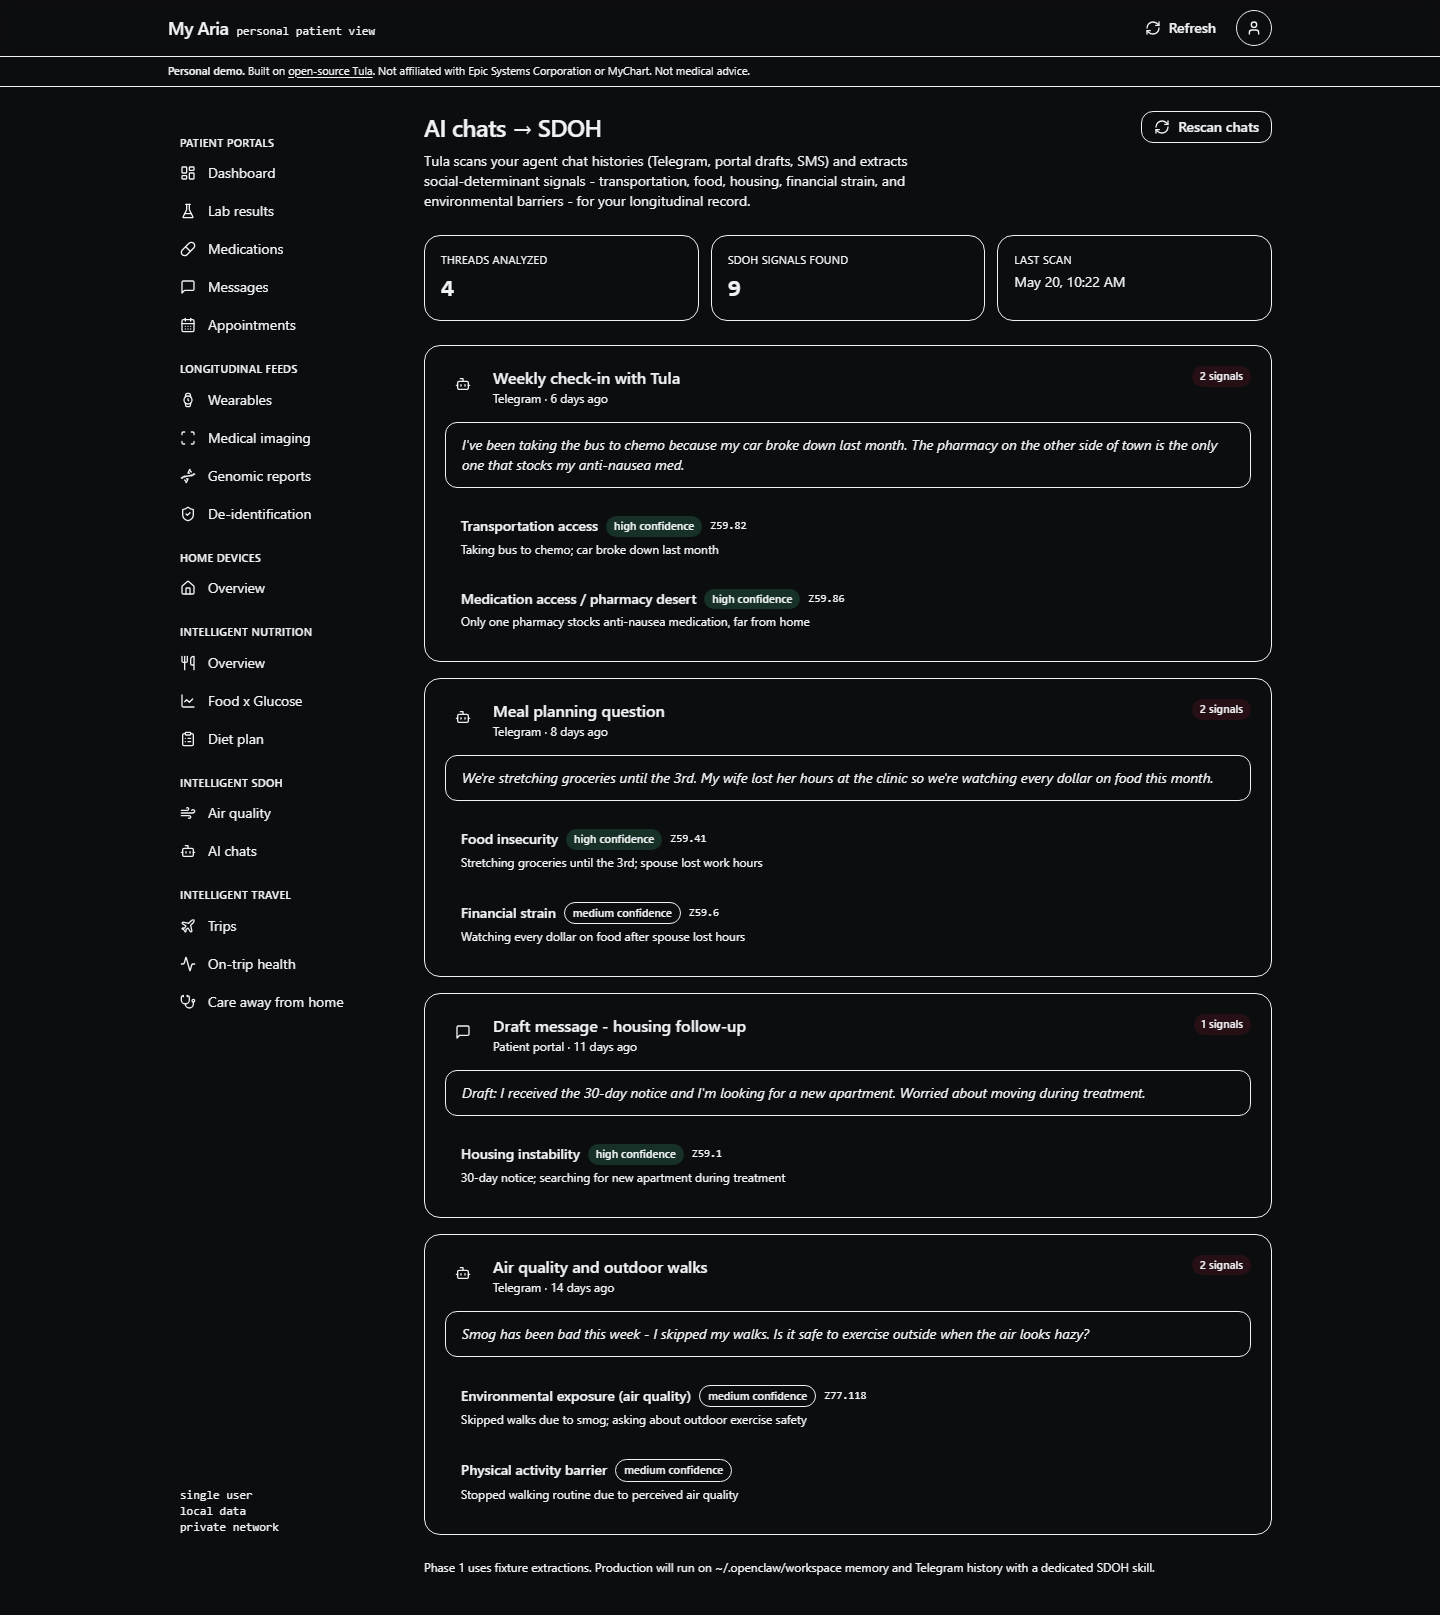
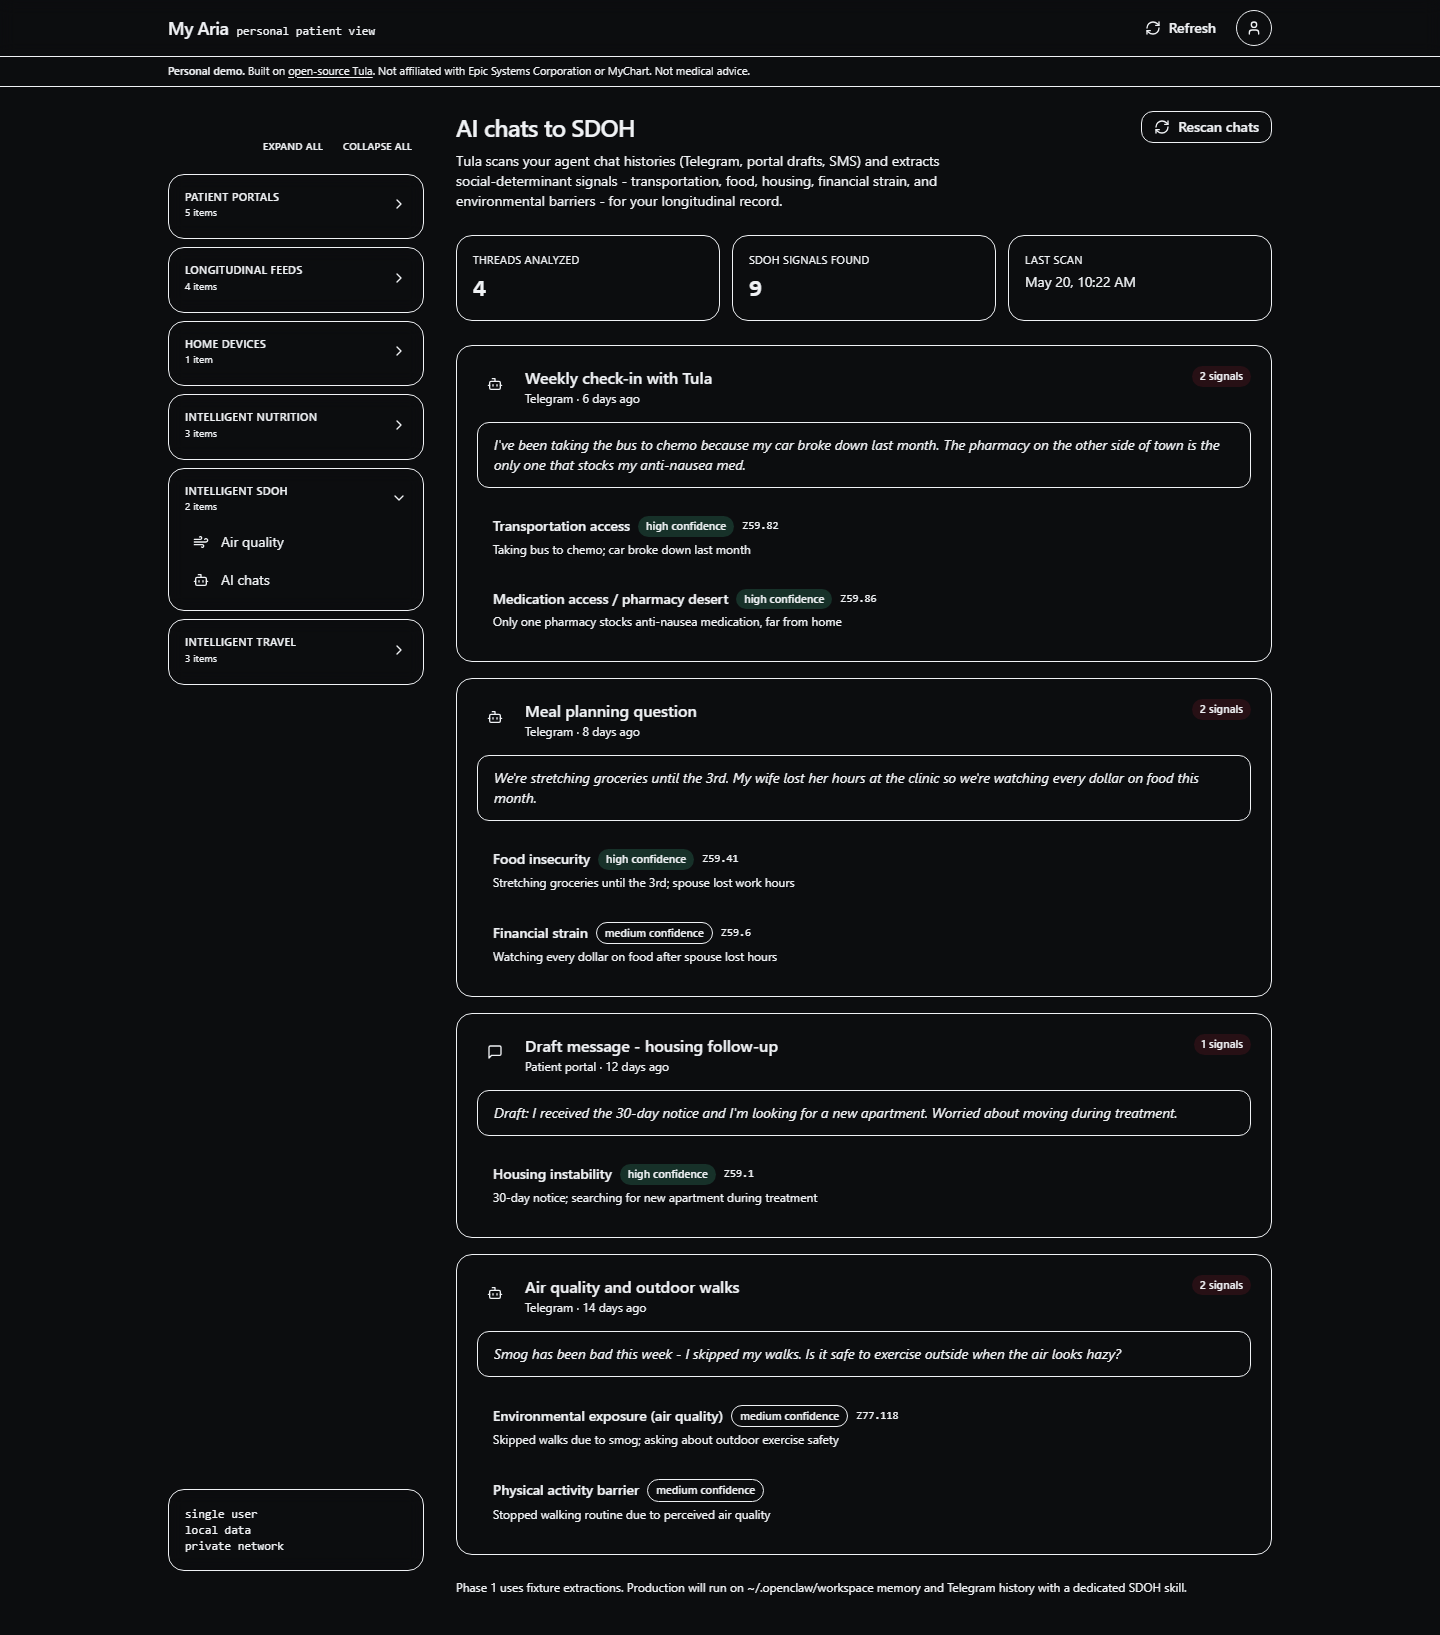
chore(apps): strip AI-typographic tells from agent-studio and my-aria
Sweeps user-facing strings and comments in both Next.js apps for the
typographic characters AI authoring tools tend to insert, matching
the prose sweep already applied to articles, docs, and READMEs.

Strictly user-facing-text and comment edits. No code logic, no
identifiers, no fixture values changed.

Em dashes (U+2014) replaced with colon or comma:
- apps/agent-studio/app/globals.css   color-tokens header comment
- apps/agent-studio/app/layout.tsx    metadata.description
- apps/agent-studio/package.json      package description
- apps/my-aria/app/globals.css        4 section header comments
  (Surfaces, Brand accent, Informational, Flag tones)
- apps/my-aria/package.json           package description

Arrow (U+2192) replaced with natural English in the one heading
that used it:
- apps/my-aria/components/sdoh/ai-chats-view.tsx
  <h1>AI chats -> SDOH</h1>  becomes  <h1>AI chats to SDOH</h1>
- apps/my-aria/public/my-aria-ai-chats.png  regenerated via
  npm run screenshot:ai-chats so the screenshot embedded in
  articles/i-built-the-patient-portal-my-agent-deserves.md
  matches the live UI

Intentionally left in place (not AI tells; would corrupt content
or design if stripped):
- Mock medical / scientific notation: "ug/m3" written as U+00B5 +
  U+00B3 (micrograms per cubic meter) in apps/my-aria/lib/sdoh/
  fixtures.ts and lookup.ts, and "SpO2" written with U+2082 in
  apps/my-aria/lib/home-devices/categories.ts. These are correct
  unit/chemistry notation.
[…]

diff --git a/apps/my-aria/app/globals.css b/apps/my-aria/app/globals.css
@@ -6,7 +6,7 @@
   --font-mono: ui-monospace, SFMono-Regular, Menlo, Monaco, Consolas,
     "Liberation Mono", "Courier New", monospace;
 
-  /* Surfaces — dark-first, MyChart-inspired clinical calm */
+  /* Surfaces: dark-first, MyChart-inspired clinical calm */
   --color-bg: oklch(0.16 0.005 264);
   --color-bg-elevated: oklch(0.20 0.006 264);
   --color-bg-card: oklch(0.22 0.007 264);
@@ -15,17 +15,17 @@
   --color-fg-subtle: oklch(0.55 0.010 264);
   --color-border: oklch(0.30 0.008 264);
 
-  /* Brand accent — burgundy (~#9B1C2C) */
+  /* Brand accent: burgundy (~#9B1C2C) */
   --color-accent: oklch(0.46 0.16 18);
   --color-accent-hover: oklch(0.52 0.17 18);
   --color-accent-fg: oklch(0.98 0.002 264);
   --color-accent-soft: oklch(0.36 0.08 18);
 
-  /* Informational — clinical blue (for appointments, balance, neutral status) */
+  /* Informational: clinical blue (for appointments, balance, neutral status) */
   --color-info: oklch(0.62 0.13 240);
   --color-info-soft: oklch(0.30 0.06 240);
 
-  /* Flag tones — preserved from agent-studio for shared FHIR semantics */
+  /* Flag tones: preserved from agent-studio for shared FHIR semantics */
   --color-flag-high: oklch(0.74 0.18 22);
   --color-flag-low: oklch(0.78 0.14 250);
   --color-flag-ok: oklch(0.78 0.14 165);

diff --git a/apps/agent-studio/app/globals.css b/apps/agent-studio/app/globals.css
@@ -6,7 +6,7 @@
   --font-mono: ui-monospace, SFMono-Regular, Menlo, Monaco, Consolas,
     "Liberation Mono", "Courier New", monospace;
 
-  /* color tokens — clinically calm, dark-mode-first */
+  /* color tokens: clinically calm, dark-mode-first */
   --color-bg: oklch(0.16 0.005 264);
   --color-bg-elevated: oklch(0.20 0.006 264);
   --color-bg-card: oklch(0.22 0.007 264);

diff --git a/apps/agent-studio/app/layout.tsx b/apps/agent-studio/app/layout.tsx
@@ -4,7 +4,7 @@ import "./globals.css";
 export const metadata: Metadata = {
   title: "Agent Studio",
   description:
-    "Agent Studio — Tula's web activity feed. Browse health data ingested from email, with live updates.",
+    "Agent Studio: Tula's web activity feed. Browse health data ingested from email, with live updates.",
 };
 
 export default function RootLayout({

diff --git a/apps/my-aria/components/sdoh/ai-chats-view.tsx b/apps/my-aria/components/sdoh/ai-chats-view.tsx
@@ -38,7 +38,7 @@ export function AiChatsView() {
     <div className="space-y-6">
       <header className="flex flex-wrap items-start justify-between gap-4">
         <div>
-          <h1 className="text-2xl font-semibold tracking-tight">AI chats → SDOH</h1>
+          <h1 className="text-2xl font-semibold tracking-tight">AI chats to SDOH</h1>
           <p className="mt-2 max-w-prose text-sm text-[--color-fg-muted]">
             Tula scans your agent chat histories (Telegram, portal drafts, SMS) and
             extracts social-determinant signals - transportation, food, housing,